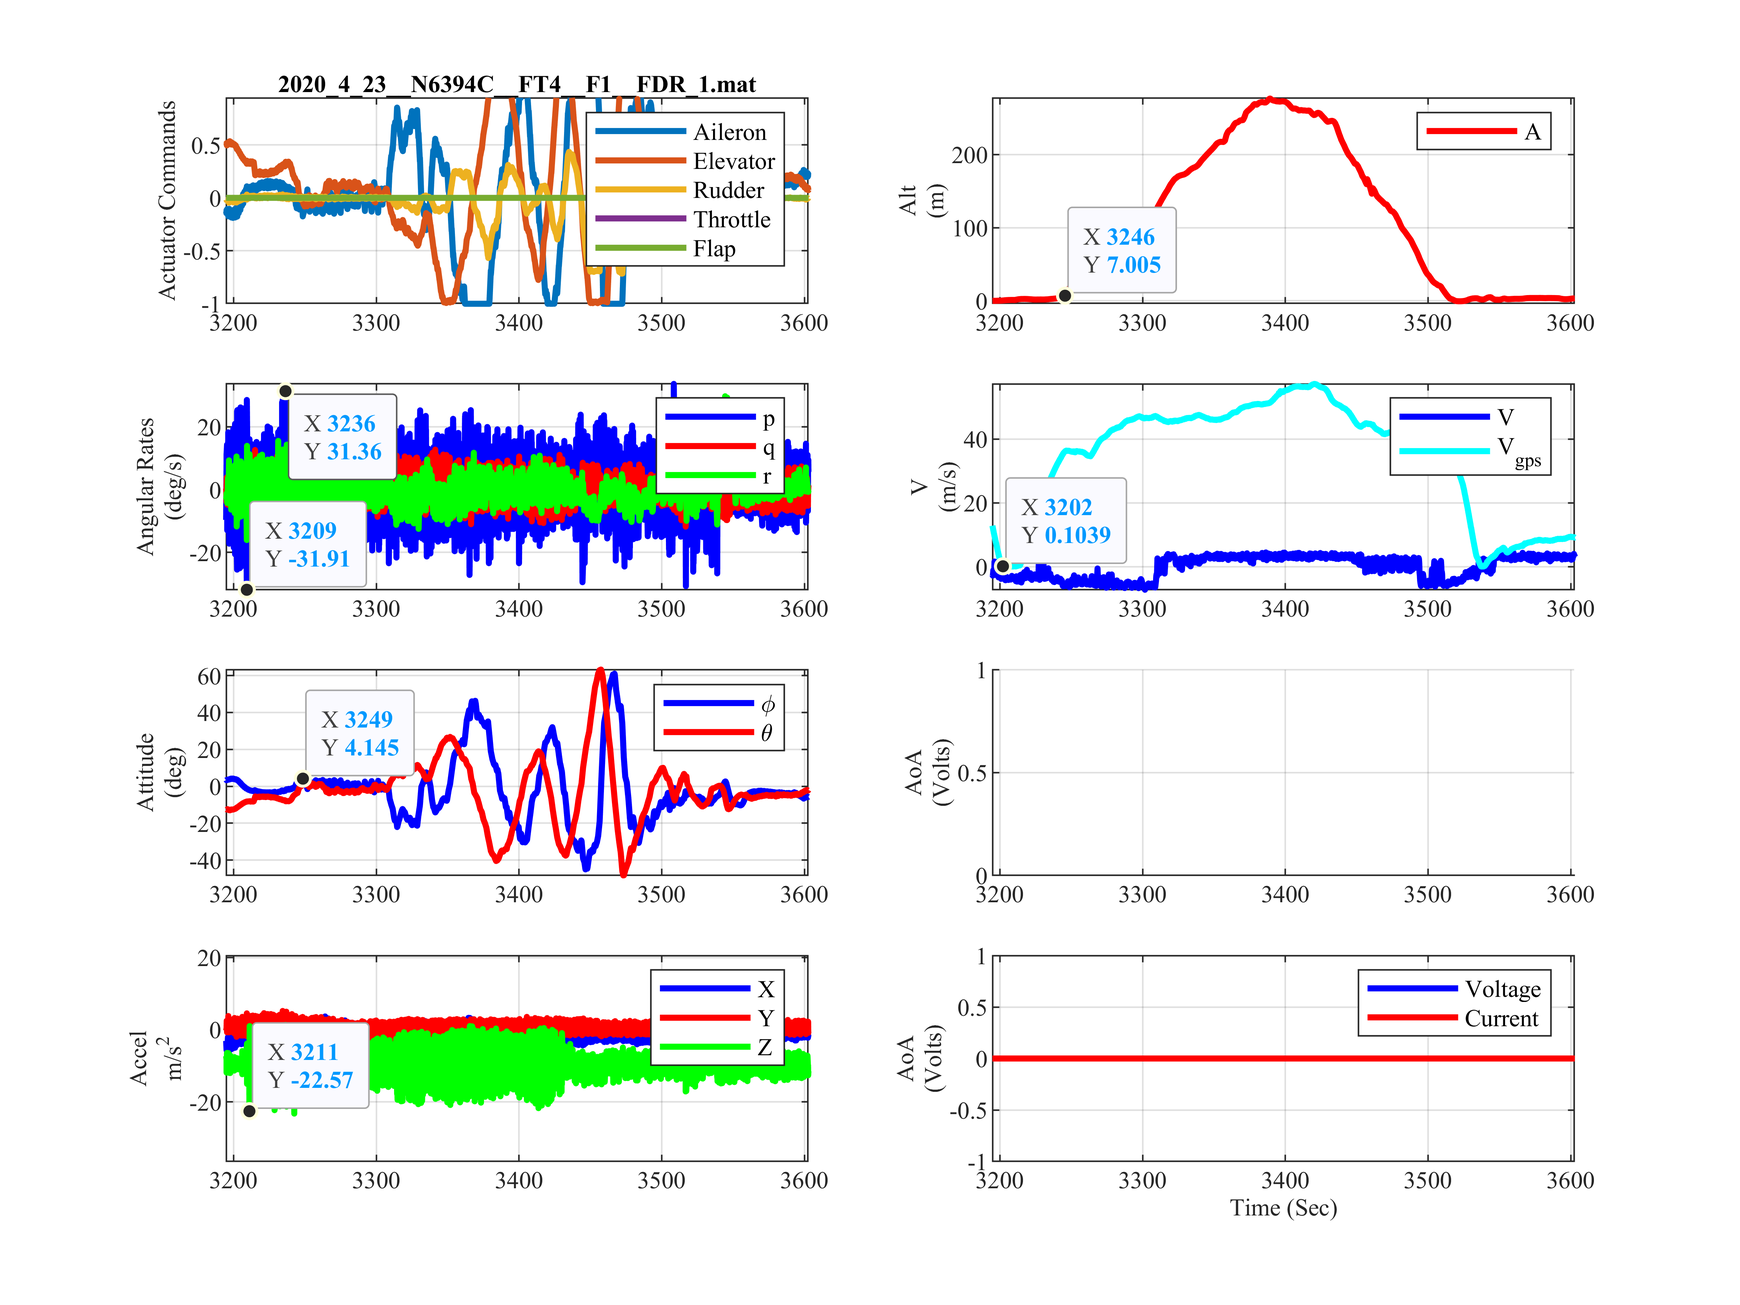
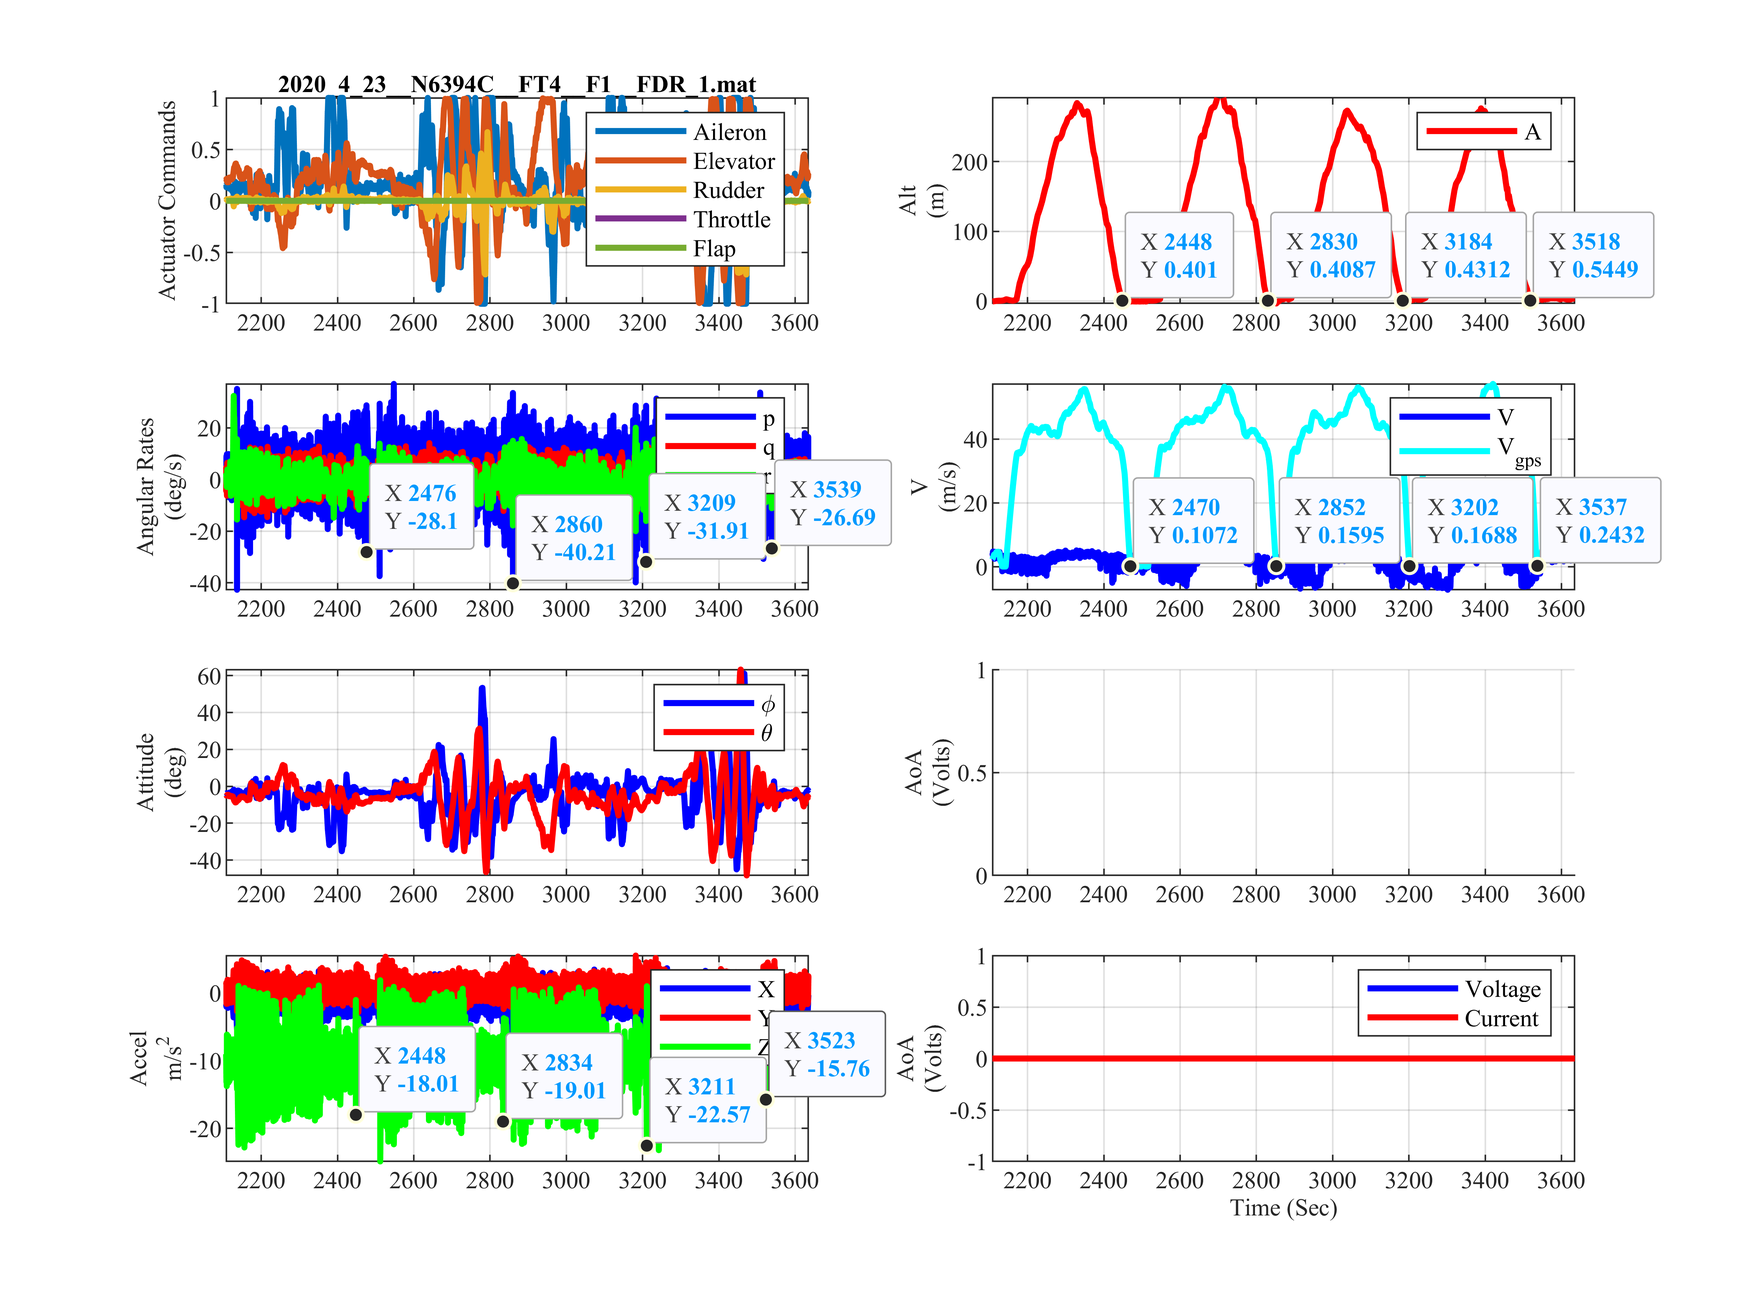
added landing roll

diff --git a/FlightTest04.tex b/FlightTest04.tex
@@ -417,33 +417,33 @@ As discussed in detail throughout the procedure, the flight cards were followed 
 \section{Test Results}
 
 \begin{itemize}
-	\item Show plots of takeoff performance
 	\item Show plots of level flight acceleration
 	\item Show plots of climbs and descents
-	\item Show plots of landing performance
 \end{itemize}
 
-The takeoff performance was found from the data using various indicator variables to determine two critical points the first being the instant the take-off roll began and the second being the moment the aircraft completed rotation and departed the runway. Various variables can be used in this endeavor and carefully studying video from on-board cameras would have been another method if the video had been provided. For most of the flight tests, three independent estimates of the moment the take-off roll began were available from the following measurements: velocity, pitch rate and accelerometer.
+\subsection{Takeoff Performance}
 
-For the velocity measurement, a point of near zero velocity was easily identified which was immediately followed by a period of steadily increasing velocity. The difficulty in determining the start of take-off roll from the velocity measurement is two fold. Firstly, since this is a measurement via global positioning system (GPS) it may lag the true takeoff roll instant and this time lag can be variable depending on the current estimate of error in the GPS signal. Analysis of the GPS signal lag and error is outside the scope of this report. The second difficulty arises because the velocity is never truly measured as zero and since the aircraft did not dwell on the runway, it can be difficult to determine what the noise level is corresponding to ``approximately'' zero velocity.
+The takeoff performance was found from the data using various indicator variables to determine two critical points the first being the instant the take-off roll began and the second being the moment the aircraft completed rotation and departed the runway. Various variables can be used in this endeavor and carefully studying video from on-board cameras would have been another method if the video had been provided. For most of the flight tests, three independent estimates of the moment the takeoff roll began were available from the following measurements: velocity, pitch rate and accelerometer.
 
-The pitch rate is determined from a gyroscope sensor. The main difficulty with the pitch rate data is that it is noisy. In fact, what would be expected to an obvious change on take-off rotation in the pitch rate is not visible above the noise floor of the data. It was necessary to use another estimate of the beginning of the take-off roll instant when analyzing the pitch rate data because of the noise level. Once an approximate location was identified, the nearest maximum or minimum spike in the pitch rate (usually corresponding to spikes in the other angular rates as well) was identified as the instant of the start of the take-off roll. This spike is most likely due to the pitching of the plane due to releasing the brakes or possibly the a rolling or yawing impulse due to the p-factor effect of the propeller.
+For the velocity measurement, a point of near zero velocity was easily identified which was immediately followed by a period of steadily increasing velocity. The difficulty in determining the start of takeoff roll from the velocity measurement is two fold. Firstly, since this is a measurement via global positioning system (GPS) it may lag the true takeoff roll instant and this time lag can be variable depending on the current estimate of error in the GPS signal. Analysis of the GPS signal lag and error is outside the scope of this report. The second difficulty arises because the velocity is never truly measured as zero and since the aircraft did not dwell on the runway, it can be difficult to determine what the noise level is corresponding to ``approximately'' zero velocity.
+
+The pitch rate is determined from a gyroscope sensor. The main difficulty with the pitch rate data is that it is noisy. In fact, what would be expected to an obvious change on takeoff rotation in the pitch rate is not visible above the noise floor of the data. It was necessary to use another estimate of the beginning of the takeoff roll instant when analyzing the pitch rate data because of the noise level. Once an approximate location was identified, the nearest maximum or minimum spike in the pitch rate (usually corresponding to spikes in the other angular rates as well) was identified as the instant of the start of the takeoff roll. This spike is most likely due to the pitching of the plane due to releasing the brakes or possibly the a rolling or yawing impulse due to the p-factor effect of the propeller.
 
 The accelerometer measurement was used in a similar manner to the pitch rate measurement. Since this data can be very noisy, an approximate location was identified and then a local extremum was identified. This instant of this extreme point was then identified as the instant at which takeoff roll began.
 
-Due to the uncertain nature of identifying take-off roll beginning and end points, different sensors were used to identify different points of the flight test. Specifically the velocity and accelerometer measurements were only appropriate for identifying the beginning of the take-off roll. While the pitch rate measurement was used to identify both the start and end of take-off roll. Likewise, measurement of pitch angle and altitude were only useful in determining the instant of rotation (the end of takeoff roll) and are explained in more detail below.
+Due to the uncertain nature of identifying takeoff roll beginning and end points, different sensors were used to identify different points of the flight test. Specifically the velocity and accelerometer measurements were only appropriate for identifying the beginning of the takeoff roll. While the pitch rate measurement was used to identify both the start and end of takeoff roll. Likewise, measurement of pitch angle and altitude were only useful in determining the instant of rotation (the end of takeoff roll) and are explained in more detail below.
 
-The pitch angle was only useful in determining the end of the rotation, signifying the beginning of flight and the end of the take-off roll. Frustratingly the pitch angle could not be used to identifying the beginning of the take-off roll. This is likely due to two issues. The first issue is that the pitch angle is not perfectly zero while the plane in on the ground. Additionally, the pitch angle changes based on use of the brakes and the throttle position as well as with the movement of the occupants. The second problem with the pitch angle is that the small nose up attitude required for take-off rotation means that the signal-to-noise ratio was low. Since this is not a flight test conducted with a high performance aircraft, the expected earth-shattering nose up pitch toward the sky does not occur and the relatively mild take-off rotation is actually fairly difficult to identify (much less identifying the starting point of the roll).
+The pitch angle was only useful in determining the end of the rotation, signifying the beginning of flight and the end of the takeoff roll. Frustratingly the pitch angle could not be used to identifying the beginning of the takeoff roll. This is likely due to two issues. The first issue is that the pitch angle is not perfectly zero while the plane in on the ground. Additionally, the pitch angle changes based on use of the brakes and the throttle position as well as with the movement of the occupants. The second problem with the pitch angle is that the small nose up attitude required for takeoff rotation means that the signal-to-noise ratio was low. Since this is not a flight test conducted with a high performance aircraft, the expected earth-shattering nose up pitch toward the sky does not occur and the relatively mild takeoff rotation is actually fairly difficult to identify (much less identifying the starting point of the roll).
 
-The pitch rate measurement was used in a similar manner as before. The approximate location of the rotation point was idenfitfied from other data and then a local extremum was identified in the pitch rate measurements. The instant of this extremum was identified as the instant of the end of the take-off roll.
+The pitch rate measurement was used in a similar manner as before. The approximate location of the rotation point was idenfitfied from other data and then a local extremum was identified in the pitch rate measurements. The instant of this extremum was identified as the instant of the end of the takeoff roll.
 
-The altitude can be used to idenfity the instant the aircraft left the ground (because the altitude began to increase). Fortunately, the altitude increase due to takeoff is large enough to provide a substantial signal-to-noise ratio making the instant easy to identify. Since altitude is provided barometrically, this data will not lag the actual data the way GPS altitude would. Altitude cannot be used to determine the start of the take-off roll because the altitude is approximately constant while the aircraft is on the ground.
+The altitude can be used to idenfity the instant the aircraft left the ground (because the altitude began to increase). Fortunately, the altitude increase due to takeoff is large enough to provide a substantial signal-to-noise ratio making the instant easy to identify. Since altitude is provided barometrically, this data will not lag the actual data the way GPS altitude would. Altitude cannot be used to determine the start of the takeoff roll because the altitude is approximately constant while the aircraft is on the ground.
 
-The average take-off roll distance was computed by comparing data for all 4 repetitions of the experiment captures as part of Flight Test 04, Card 1, Instance 1. The individual estimates are presented in~\Cref{takeofftable} below.
+The average takeoff roll distance was computed by comparing data for all 4 repetitions of the experiment captures as part of Flight Test 04, Card 1, Instance 1. The individual estimates are presented in~\Cref{takeofftable} below.
 
 \begin{table}[htp!]
 \centering
-\caption{Take-off Roll Estimates.}
+\caption{takeoff Roll Estimates.}
 \label{takeofftable}
 \begin{tabular}{ c | c | c | c }
 	\multicolumn{4}{c}{\textbf{Repetition Number}}										\\
@@ -457,25 +457,71 @@ The average take-off roll distance was computed by comparing data for all 4 repe
 \end{tabular}
 \end{table}
 
-An example of the plots used to identify the individual estimates for the beginning and end of the take-off roll is provided in~\Cref{timeid}. A plot showing all of the beginning and end times on the distance measurement is shown in~\Cref{distanceid}.
+An example of the plots used to identify the individual estimates for the beginning and end of the takeoff roll is provided in~\Cref{timeid}. A plot showing all of the beginning and end times on the distance measurement is shown in~\Cref{distanceid}.
 
 \begin{figure}[htp!]
 \centering
-	\includegraphics[height=5in]{LandingRollTimeID.png}
-	\caption{Example of Identification of Take-off Roll Start and End Times.}
+	\includegraphics[height=4in]{TakeoffRollTimeID.png}
+	\caption{Example of Identification of takeoff Roll Start and End Times.}
+	\label{timeid}
+\end{figure}
+
+\begin{figure}[htp!]
+\centering
+	\includegraphics[height=1.5in]{TakeoffRollDistID.png}
+	\caption{takeoff Roll Distance Identification using Previously Identified Time Instants.}
+	\label{distanceid}
+\end{figure}
+
+The pilot operating handbook (POH) for the aircraft used during this flight test puts the takeoff roll distance at around~\SI{2000}{\foot}. No information on the aircraft fuel load was given; although, another flight test was completed without refueling so the aircraft was not close to empty at the beginning of this test. Additionally, the aircraft was occupied by three passengers with an average estimated weight of~\SI{180}{\poundforce}. Assuming a basic empty weight of~\SI{1400}{\poundforce} along with about~\SI{100}{\poundforce} of fuel along with~\SI{100}{\poundforce} of additional equipment (I do not have the operating handbook for this particular aircraft but there was definitely additional equipment including a fire extinguisher, toolbox and upgraded avionics) gives an estimate for takeoff weight of~\SI{2140}{\poundforce}.
+
+The identified takeoff roll of~\SI{2044}{\foot} is very close to the expected takeoff roll from the handbook of~\SI{2100}{\foot} (assuming altitude of~\SI{1000}{\foot} MSL and temperature of~\SI{15}{\celsius} according to the METAR for KMKC at the time of the flight test). This indicates that the takeoff test was conducted with adequately controlled conditioned since the test was able to recreate expected conditions. Additionally, it means that the pilot operating handbook is trustworthy (good news pilots!).
+
+\subsection{Landing Performance}
+
+For landing performance, a similar procedure to that used to find takeoff performance was used. In the case of landing performance, velocity, pitch angle and accelerometer measurements were available to determine the end of the landing roll. Only a single measurement, altitude, was available for identifying the touch down point. Ostensibly, the accelerometer, angular rate or the Euler angles should have indicated the instant of touch down. Practically, this was not possible. Reasons for this have been previously discussed in detail and include poor signal-to-noise ratio and the relatively mundane handling characteristics of the airplane in question. It might even be reasonable to hazard such a statement as the lack of appreciable impulse in any of the measurements during landing is a testament to the skill of the pilot.
+
+\begin{table}[htp!]
+\centering
+\caption{Landing Roll Estimates.}
+\label{takeofftable}
+\begin{tabular}{ c | c | c | c }
+	\multicolumn{4}{c}{\textbf{Repetition Number}}										\\
+	\textbf{1} & \textbf{2} & \textbf{3} & \textbf{4}									\\
+	\hline
+	\SI{1358}{\foot} & \SI{1265}{\foot} & \SI{1026}{\foot} & \SI{1250}{\foot}			\\
+	\hline
+	\hline
+	\multicolumn{3}{c}{\textbf{Overall Average}} & \textbf{\SI[detect-weight=true]{1225}{\foot}}	\\
+	\hline
+\end{tabular}
+\end{table}
+
+\begin{figure}[htp!]
+\centering
+	\includegraphics[height=4in]{LandingRollTimeID.png}
+	\caption{Example of Identification of takeoff Roll Start and End Times.}
 	\label{timeid}
 \end{figure}
 
 \begin{figure}[htp!]
 \centering
 	\includegraphics[height=2in]{LandingRollDistID.png}
-	\caption{Take-off Roll Distance Identification using Previously Identified Time Instants.}
+	\caption{takeoff Roll Distance Identification using Previously Identified Time Instants.}
 	\label{distanceid}
 \end{figure}
 
-The pilot operating handbook for the aircraft used during this flight test puts the take-off roll distance at around~\SI{2000}{\foot}. No information on the aircraft fuel load was given; although, another flight test was completed without refueling so the aircraft was not close to empty at the beginning of this test. Additionally, the aircraft was occupied by three passengers with an average estimated weight of~\SI{180}{\poundforce}. Assuming a basic empty weight of~\SI{1400}{\poundforce} along with about~\SI{100}{\poundforce} of fuel along with~\SI{100}{\poundforce} of additional equipment (I do not have the operating handbook for this particular aircraft but there was definitely additional equipment including a fire extinguisher, toolbox and upgraded avionics) gives an estimate for takeoff weight of~\SI{2140}{\poundforce}.
+Assuming the same conditions as before, the POH specified landing roll is around~\SI{700}{\foot}.  The identified landing roll was around~\SI{1200}{\foot} which is nearly twice as long of a roll as predicted by the POH. This error is explained by a number of factors.
 
-The identified take-off roll of~\SI{2044}{\foot} is very close to the expected take-off roll from the handbook of~\SI{2100}{\foot} (assuming altitude of~\SI{1000}{\foot} MSL and temperature of~\SI{15}{\celsius} according to the METAR for KMKC at the time of the flight test). This indicates that the takeoff test was conducted with adequately controlled conditioned since the test was able to recreate expected conditions. Additionally, it means that the pilot operating handbook is trustworthy (good news pilots!).
+The first of these factors is that the airplane for the flight test was a rented airplane and as much as the pilot in this case has a history of tearing up rented vehicles, hammering the brakes on a rental airplane and causing damage to the landing struts, shredding the tires or burning up the brakes would be bad for a number of factors. Firstly, any of these events would have prevented further flight testing. Second, since the flight test was at the behest of the University, there could have been repercussions for repair costs incurred due to foolhardy piloting. Thus, to his credit, the pilot in this case may be blamed for being slightly cautious during the landing performance evaluation.  Since the pilot is more familiar with different aircraft types, it is also possible that he was not exercising the full performance of the aircraft simply due to lack of familiarity.
+
+Additional factors must not be discounted. Namely, the load estimate used here is an estimate since fuel load was not given in the test card. It is possible the airplane was loaded more in reality than was accounted for here. Additionally, since this a rental airplane, presumably with many hours on the engine and many sloppy landings on the airframe, it is possible that the braking action is diminished. The tires could be worn to the point of decreasing available braking force. The hydraulic system could be improperly bled leading to spongy feel, fluid boiling and lack of brake force. The rotors and pads themselves could be worn out or of inferior quality which could all lead to diminished braking action.
+
+The POH landing estimate is for a full stall landing. This means that the touchdown point at the end of the flare perfectly corresponds to the threshold minimum speed where the aircraft is no longer flying. It is highly unlikely that this condition is perfectly matched during flight. Undershooting landing speed at this critical condition would most likely lead to a crash. Whereas overshooting this critical speed simply leads to a longer landing roll. The conservative approach will always result in a longer landing roll out of the necessity to be safe. In this case, the pilot was aiming for a specific point on the runway during landing. This could also contribute to the longer roll since for true landing performance, the aircraft should be brought near the runway and flown nearly level just above the runway until the stall condition is approached and the aircraft touches down. In this case, more conventional landing technique was used meaning that the glide slope is an important factor in determining touch-down speed leading to changes in landing performance.
+
+Additional problems are likely to be found with the way the roll length is estimated. For takeoff roll, the velocity estimate is fairly reliable since GPS gets better the longer  the vehicle is sitting still. For landing, since the aircraft is transitioning from high speed to low speed, the error in the GPS velocity estimate is likely higher. The data were cross referenced with data from other sensors; however, most noisy sensor rely on an estimate to get in the ballpark of the correct location. This has been previously discussed and it could mean that the start and end time estimates from cross-referenced sensors are simply confirming the estimate which has already been found.
+
+The take-away here is that you should not expect to rent a Piper Warrior and go enter a short takeoff and landing (STOL) competition without first verifying that the short field takeoff and landing roll estimates are correct. This is not the correct airplane for bush flying anyway, but if your home airport is a~\SI{1000}{\foot} grass strip, then maybe you should look elsewhere. It is also possible that this aircraft has updated load information or some other mitigating factors explained in the POH which belongs to this aircraft. POH are customized according to modifications to the aircraft and updated throughout the life of the plane. It is possible that some factor (including those not mentioned above) has been documented in the POH and would explain the relatively poor landing roll performance.
 
 
 \section{Discussion}
